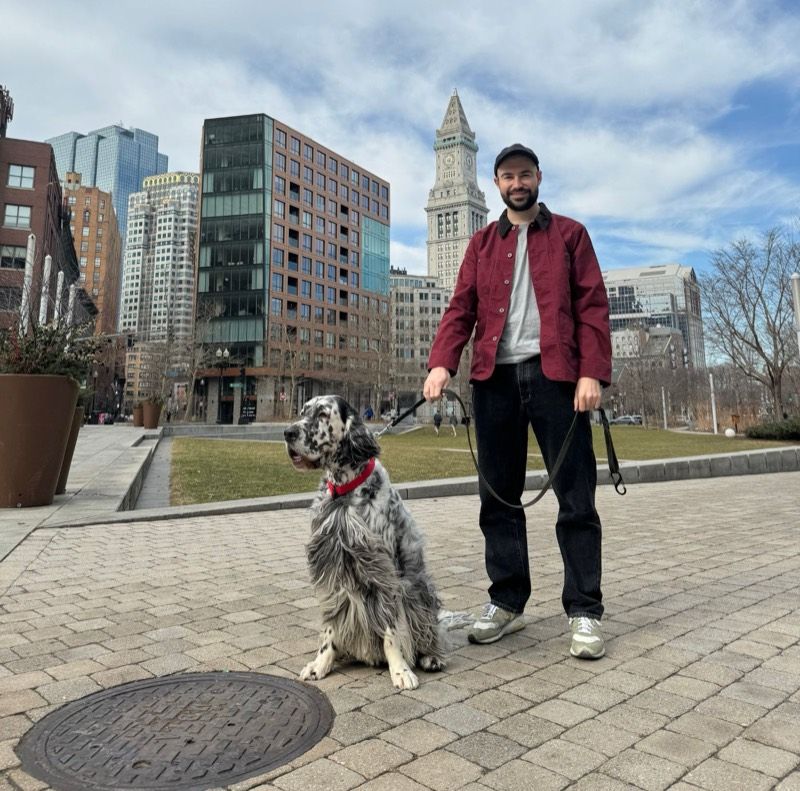
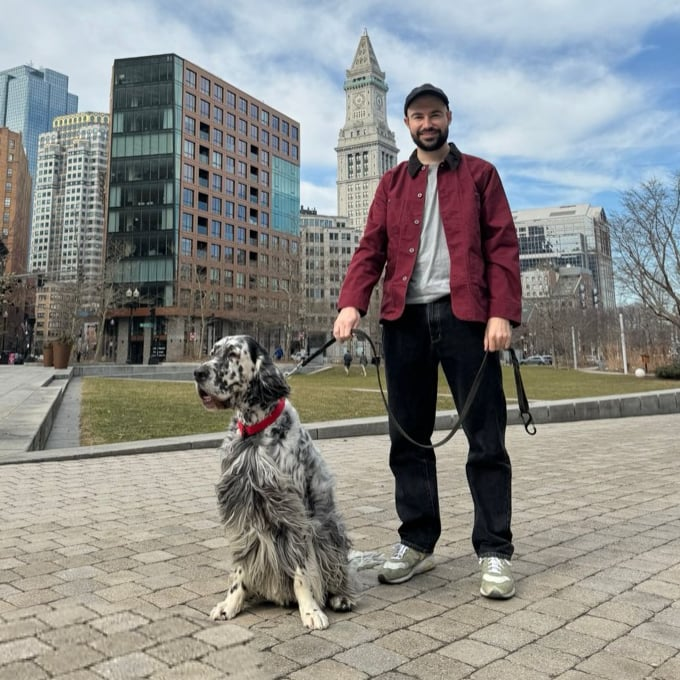
About: Battery Park after the Empire State Trail; Greenway photo without the manhole cover
The Battery Park photo replaces Acadia, square-cropped with the Statue of Liberty in frame and stripped of location data. The Greenway photo with Philly has its manhole cover patched with the surrounding pavement and is cropped in closer. The filmstrip's photos now carry their width and height, so the strip has its shape before they load.

diff --git a/content/About.md b/content/About.md
@@ -51,27 +51,27 @@ I hike, ride my bike, shoot film, read science fiction, and go to the movies, es
 
 <div class="filmstrip" id="photos" role="region" aria-label="Photos of Graham and photos he has taken" tabindex="0">
 <figure>
-<img src="/photos/graham-hagenah-boston-philly.jpg" alt="Graham Hagenah in a red jacket and cap, holding the leash of Philly, a black-and-white English setter sitting beside him, on the Rose Kennedy Greenway with Boston's Custom House tower behind them">
+<img src="/photos/graham-hagenah-boston-philly.jpg" width="680" height="680" alt="Graham Hagenah in a red jacket and cap, holding the leash of Philly, a black-and-white English setter sitting beside him, on the Rose Kennedy Greenway with Boston's Custom House tower behind them">
 <figcaption>With Philly on the Rose Kennedy Greenway, Boston.</figcaption>
 </figure>
 <figure>
-<img src="/photos/photo-by-graham-hagenah-bryce.jpg" alt="Photo by Graham Hagenah: orange and white hoodoos, tall eroded rock spires, dusted with snow among a few pine trees">
+<img src="/photos/photo-by-graham-hagenah-bryce.jpg" width="900" height="1125" alt="Photo by Graham Hagenah: orange and white hoodoos, tall eroded rock spires, dusted with snow among a few pine trees">
 <figcaption>Hoodoos in the snow, Bryce Canyon, Utah.</figcaption>
 </figure>
 <figure>
-<img src="/photos/graham-hagenah-acadia-bike.jpg" alt="Graham Hagenah in a bike helmet, standing with his silver road bike on a coastal road, a rocky beach and evergreen shoreline behind him under a blue sky">
-<figcaption>On my bike in Acadia National Park, Maine.</figcaption>
+<img src="/photos/graham-hagenah-battery-park-bike.jpg" width="800" height="800" alt="Graham Hagenah in a bike helmet, smiling and holding his silver road bike with its packed bags over his head at the railing in Battery Park, the harbor and the Statue of Liberty behind him under a cloudy blue sky">
+<figcaption>In Battery Park after biking the Empire State Trail.</figcaption>
 </figure>
 <figure>
-<img src="/photos/photo-by-graham-hagenah-malibu.jpg" alt="Photo by Graham Hagenah: a coastal highway in hazy golden light, telephone poles leading toward the ocean and layered hills">
+<img src="/photos/photo-by-graham-hagenah-malibu.jpg" width="900" height="596" alt="Photo by Graham Hagenah: a coastal highway in hazy golden light, telephone poles leading toward the ocean and layered hills">
 <figcaption>Pacific Coast Highway, Malibu.</figcaption>
 </figure>
 <figure>
-<img src="/photos/graham-hagenah-mount-hood.jpg" alt="Graham Hagenah in a sun hat with a backpack and camera, smiling on a rocky trail, with the snowy peak of Mount Hood behind him">
+<img src="/photos/graham-hagenah-mount-hood.jpg" width="800" height="813" alt="Graham Hagenah in a sun hat with a backpack and camera, smiling on a rocky trail, with the snowy peak of Mount Hood behind him">
 <figcaption>On the Timberline Trail around Mount Hood, 2022.</figcaption>
 </figure>
 <figure>
-<img src="/photos/photo-by-graham-hagenah-blue-jay.jpg" alt="Photo by Graham Hagenah: a blue jay perched on a branch among orange fall leaves">
+<img src="/photos/photo-by-graham-hagenah-blue-jay.jpg" width="900" height="720" alt="Photo by Graham Hagenah: a blue jay perched on a branch among orange fall leaves">
 <figcaption>A blue jay in the fall.</figcaption>
 </figure>
 </div>
